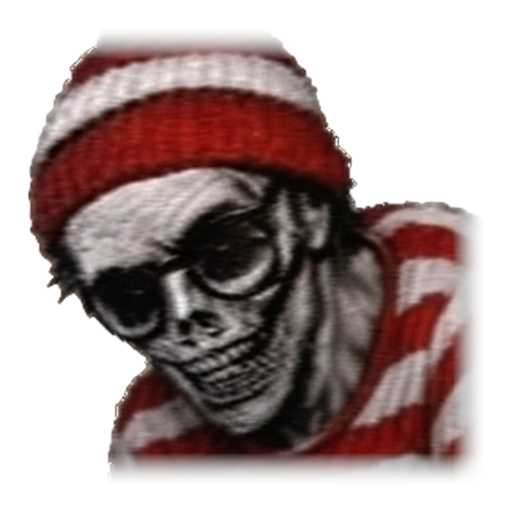
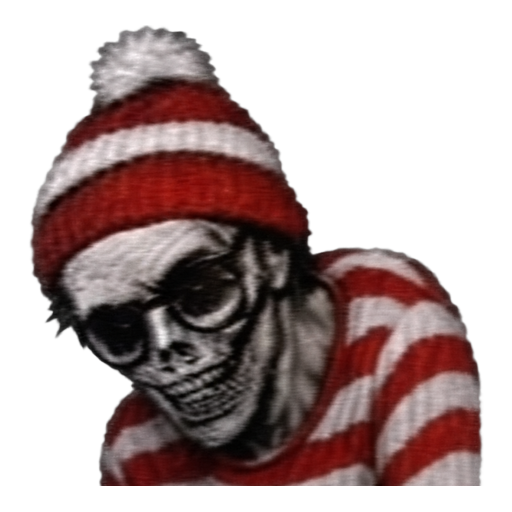
sprite-fix4: scp966, deer, waldo replaced with creator's original transparent sprites (iwantcheckmate.com)

diff --git a/rebuild/research/polish_report.md b/rebuild/research/polish_report.md
@@ -374,3 +374,8 @@ RESUME: sprite-fix2 done = AvZiSnngZjA king, NK4Upb_s8Ok shotgun_king_art, Ji7fr
 2026-11-25 ~9:45 PM ET. hgU5hVwLlHo/anish.png: COMPOSITE (rembg isnet cutout of existing avatar, dark backdrop removed), 512px transparent. rembg trials on queen_face/scp966/despair/scp2774/troll gave semi-transparent or eaten subjects (sheet /workspace/work/sprite_fix3_shots/rembg_trials.png) so they were NOT committed; WEYUcaJTBso troll source is clipped at bottom so flood-fill cutout leaks.
 
 RESUME: sprite-fix3 done = hgU5hVwLlHo anish; next = rf2HSTXTehE + _RFXN1Ye3sY queen_face, mwv48BWl2DY scp966, U67wZoy-1fE despair, JUlTxosCXuk scp2774, M0rsyuvaTrk/WEYUcaJTBso troll (need web/alternate or hand composite, rembg alone fails), then redo PGBHL6Nc4X0 deer / _Kx4ChHuCgI oldman / gHAmif0TenY waldo, then /workspace/work/sprite_sweep_out/flagged.md.
+
+## sprite-fix4
+2026-11-25 ~11:45 PM ET. FOUND on the creator's own site (transparent RGBA originals): mwv48BWl2DY/scp966.png (iwantcheckmate.com/challenges/scp-966/scp966.png, 1536px), PGBHL6Nc4X0/deer.png (/challenges/deer/deer.png, 320px; antlers/neck are clipped in the original too), gHAmif0TenY/waldo.png (/challenges/waldo/waldo.png, 2000px). Fitted 512px ~90%, no fading. QA 390 x3: 0 console errors. Site only hosts 18 challenges (main-*.js list); queen_face/despair/scp2774/troll/oldman are not there.
+
+RESUME: sprite-fix4 done = scp966, deer, waldo; next = queen_face x2, despair, scp2774, troll x2, oldman, then BLURRY_SPRITES.md.

diff --git a/rebuild/app/LICENSES.md b/rebuild/app/LICENSES.md
@@ -26,3 +26,4 @@ logo belong to iwantcheckmate (https://www.youtube.com/@iwantcheckmate).
 - assets/pieces/staunton3d: original procedural renders (tools/g3d_staunton.py) for this project; no third-party art.
 
 - Ji7frCIfmAQ/zombie.png: Twemoji U+1F9DF, (c) Twitter/jdecked contributors, CC-BY 4.0, https://github.com/jdecked/twemoji
+- sprite-fix4: mwv48BWl2DY/scp966.png, PGBHL6Nc4X0/deer.png, gHAmif0TenY/waldo.png are the creator's own sprites from iwantcheckmate.com/challenges/<name>/ (used as fan recreation of the same channel's modes).
